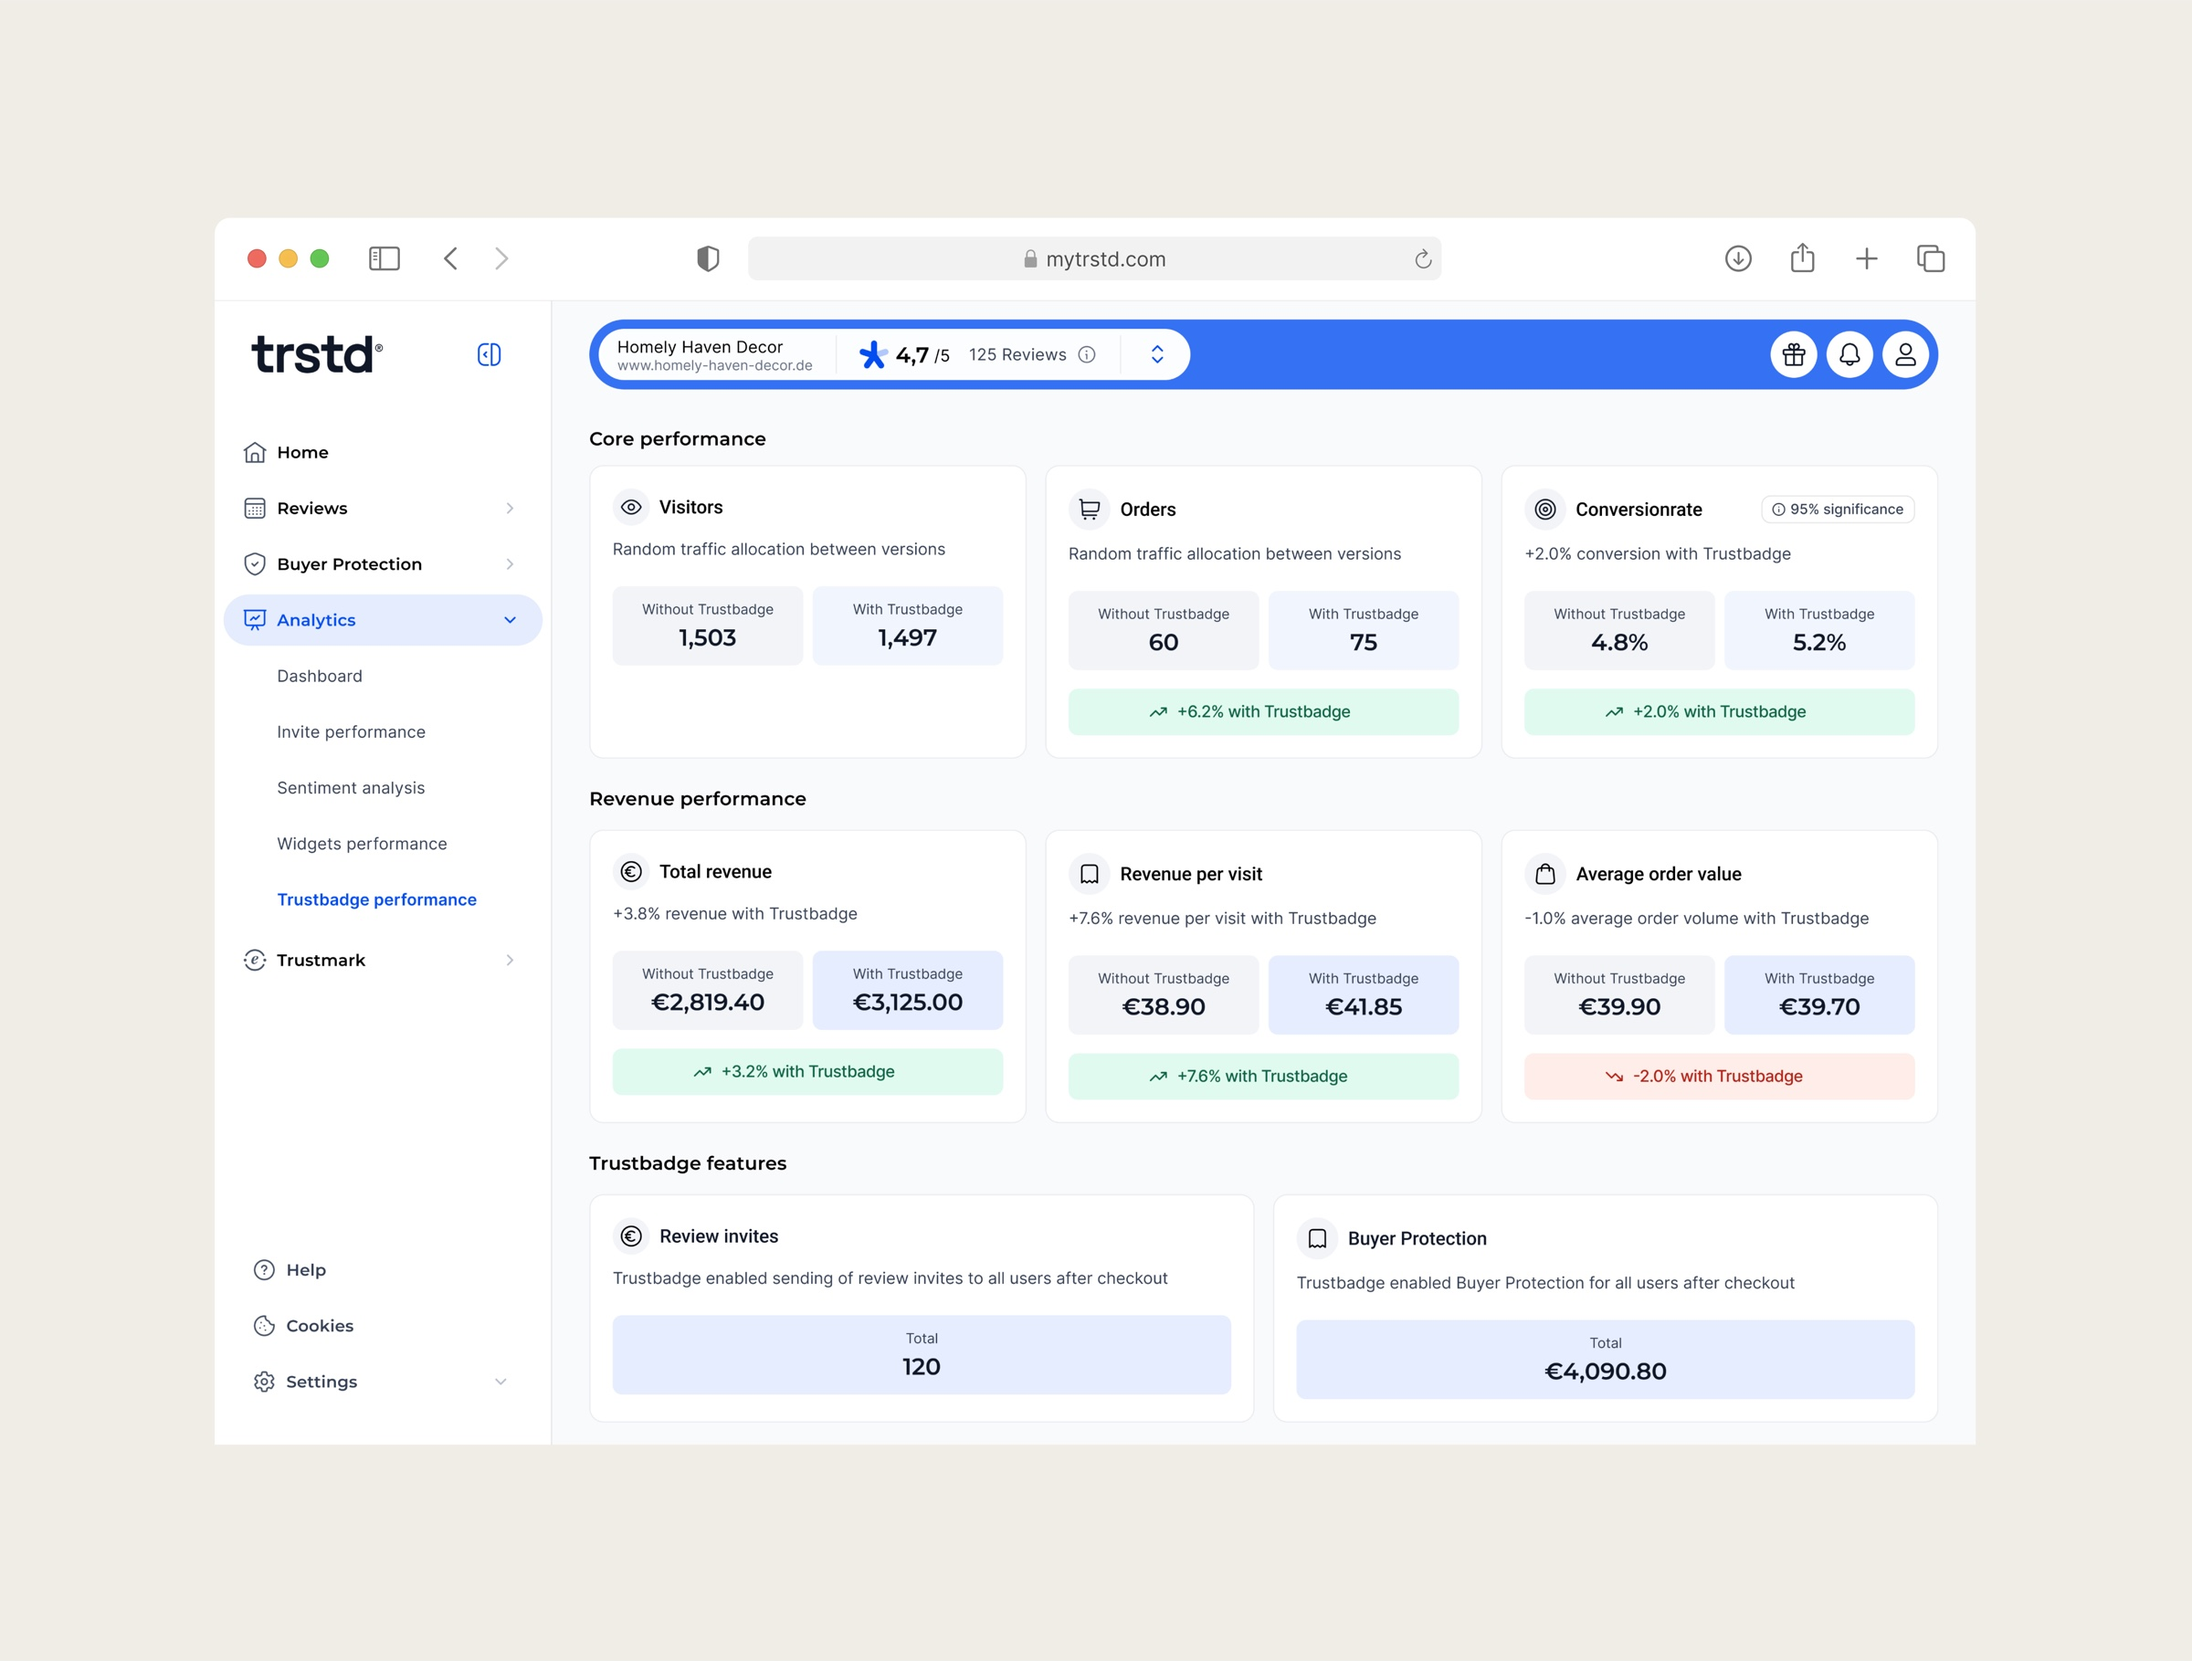
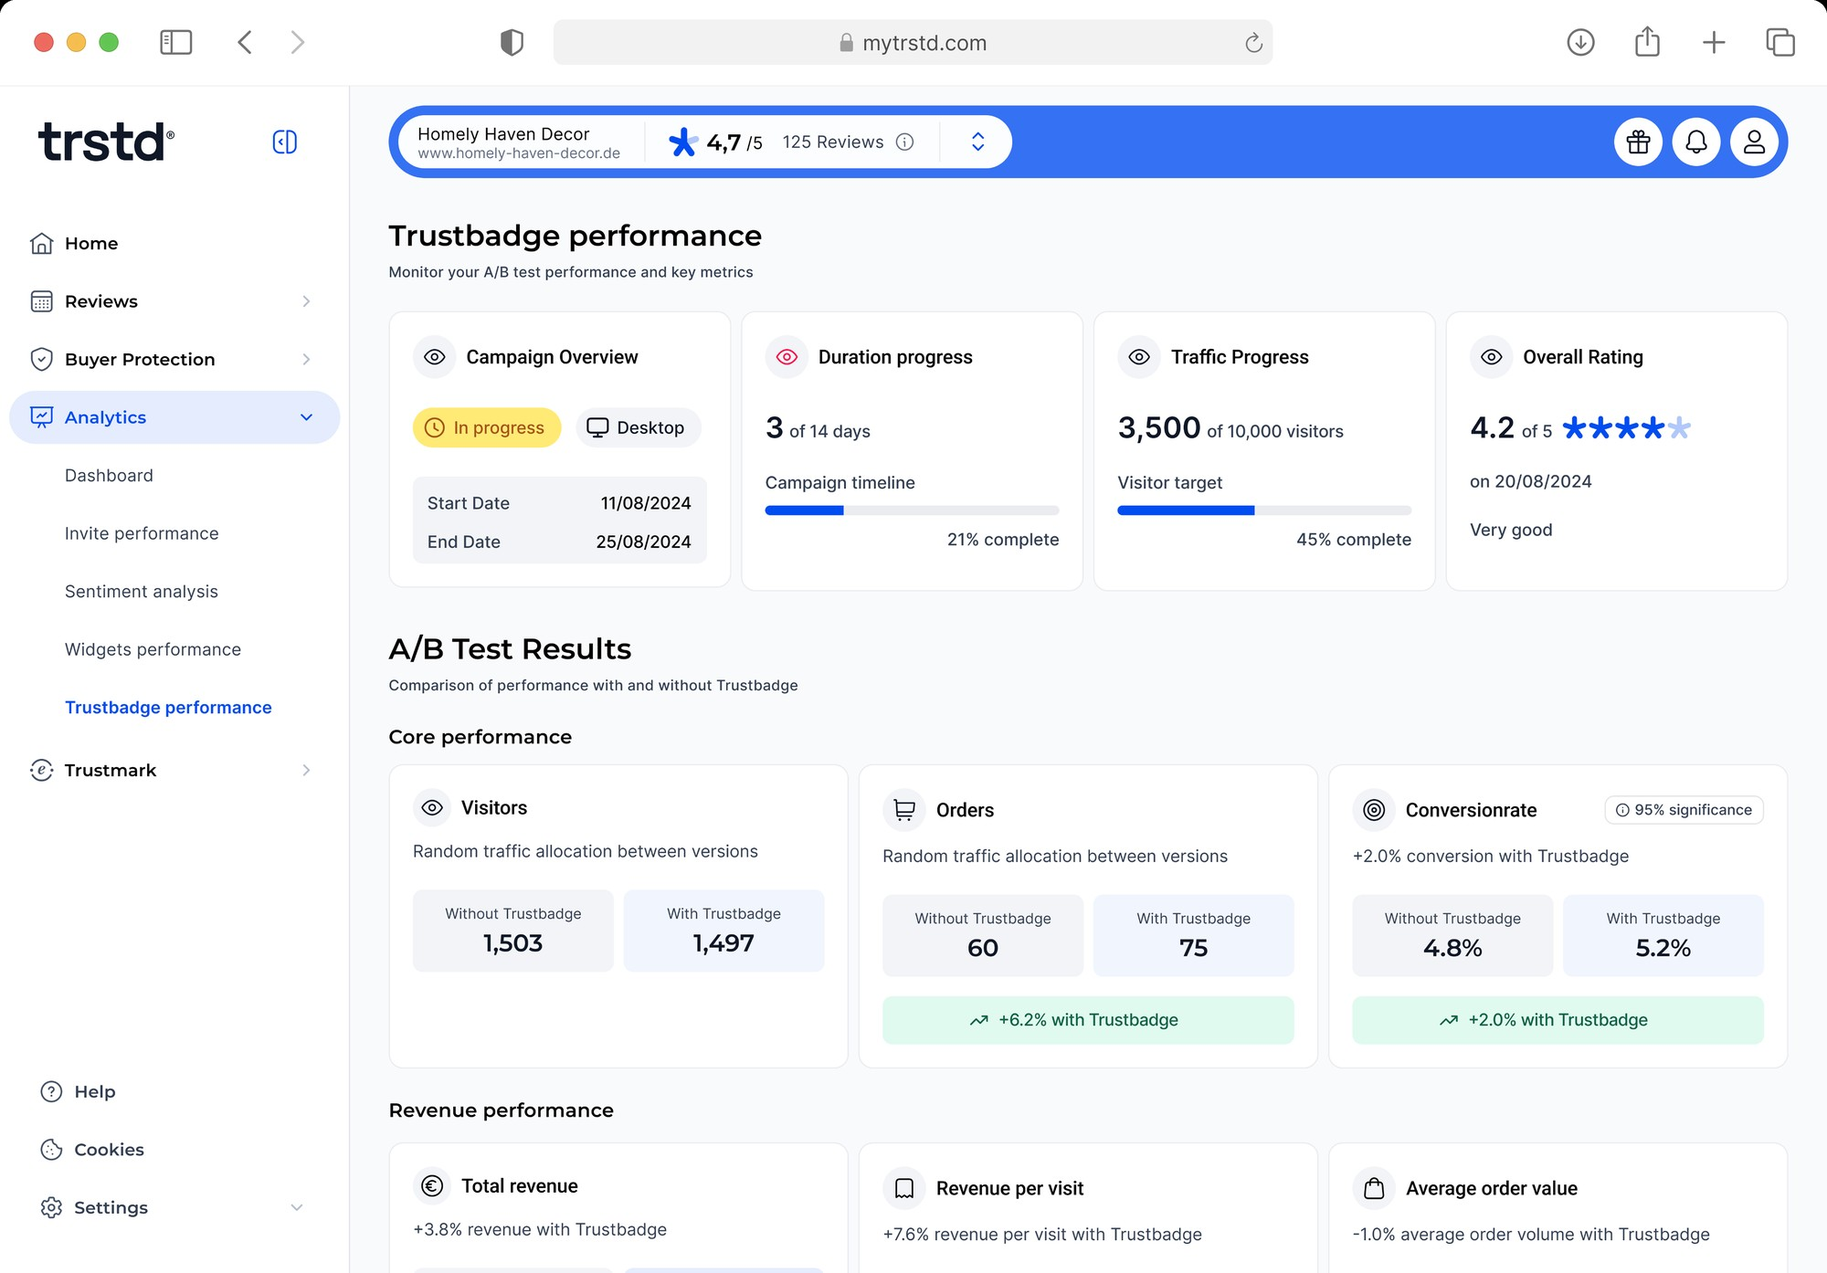
Trustbadge case: hero image = trstd dashboard screenshot (sync)

diff --git a/case-trustbadge-ab.html b/case-trustbadge-ab.html
@@ -55,7 +55,7 @@
 
     <!-- 2. hero image -->
     <div class="case-media case-media-hero is-img">
-      <img src="assets/tb-results.jpg" alt="A/B test results: core and revenue performance with vs. without Trustbadge" loading="lazy">
+      <img src="assets/tb-results.jpg?v=2" alt="A/B test results: core and revenue performance with vs. without Trustbadge" loading="lazy">
     </div>
 
     <!-- 3. impact strip -->
